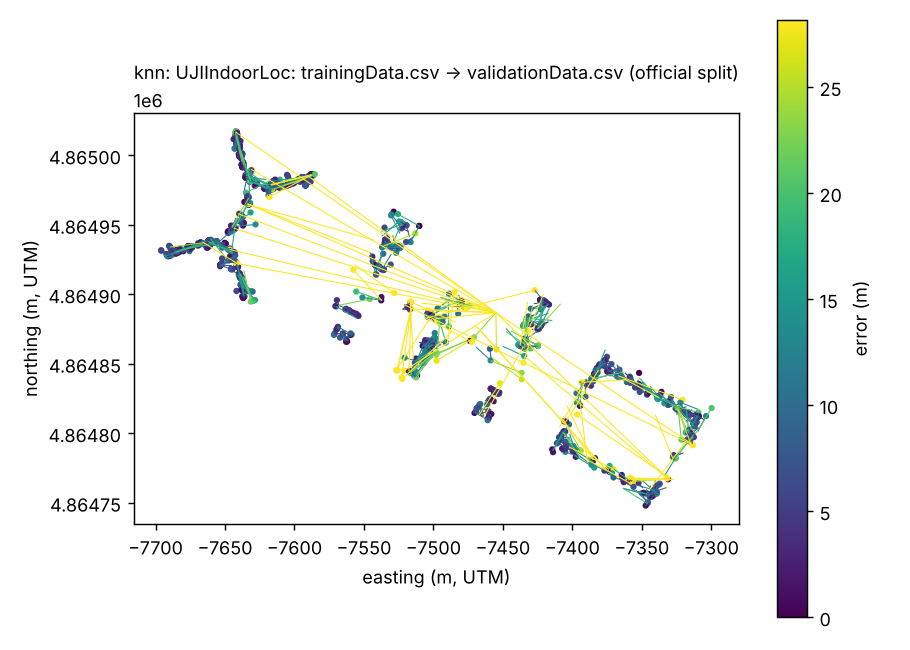
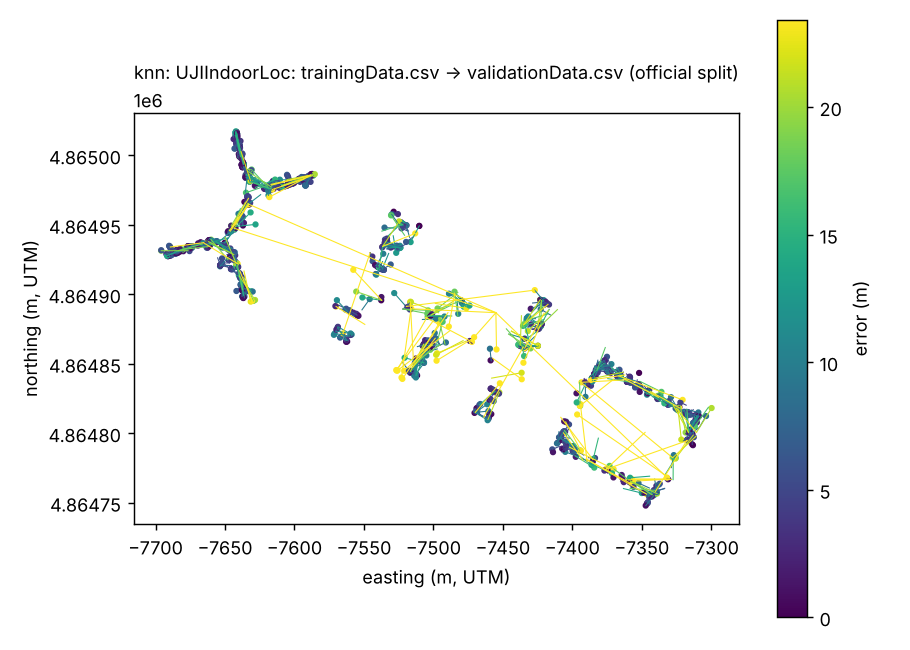
kNN: Euclidean default, --metric flag, feature x metric comparison table in results.json
Claude-Session: https://claude.ai/code/session_019pkodG4Ue6H1BCoX8NKmj1

diff --git a/src/rssi_loc/cli.py b/src/rssi_loc/cli.py
@@ -47,7 +47,7 @@ def run(args: argparse.Namespace) -> dict:
     errs: dict[str, np.ndarray] = {}
 
     def make_knn(k: int = args.k) -> KnnLocalizer:
-        return KnnLocalizer(k=k)
+        return KnnLocalizer(k=k, metric=args.metric)
 
     def make_mlp() -> MlpLocalizer:
         return MlpLocalizer(hidden=args.hidden, seed=0)
@@ -65,12 +65,32 @@ def run(args: argparse.Namespace) -> dict:
         }
         print(f"{name:4s} CV: {m_cv.as_dict()}\n{name:4s} split: {m_split.as_dict()}")
         plots.prediction_map(test.xy, pred.xy, figs / f"03_{name}_map.png", f"{name}: {source}")
-    res["knn"]["k"] = args.k
+    res["knn"]["k"], res["knn"]["metric"] = args.k, args.metric
     res["mlp"]["hidden"] = list(args.hidden)
 
     sweep = evaluate.k_sweep(KS, x_tr, train, x_te, test, make_knn)
     res["knn"]["k_sweep"] = sweep.to_dict(orient="records")
     print(sweep.to_string(index=False))
+
+    # Which feature representation and which distance? kNN only, official split, same k.
+    res["knn_variants"] = [
+        {
+            "features": kind,
+            "metric": metric,
+            **evaluate.summarise(
+                evaluate.fit_predict(
+                    KnnLocalizer(k=args.k, metric=metric),
+                    transform(train.rssi, kind),
+                    train,
+                    transform(test.rssi, kind),
+                ),
+                test,
+            ).as_dict(),
+        }
+        for kind in KINDS
+        for metric in ("euclidean", "manhattan")
+    ]
+    print("knn variants:", *res["knn_variants"], sep="\n  ")
 
     stds = {
         "any phone": evaluate.rssi_repeatability(train),
@@ -107,6 +127,7 @@ def main(argv: list[str] | None = None) -> None:
     r.add_argument("--figures", default="figures")
     r.add_argument("--features", default="powed", choices=KINDS)
     r.add_argument("--k", type=int, default=3)
+    r.add_argument("--metric", default="euclidean", choices=["euclidean", "manhattan"])
     r.add_argument("--folds", type=int, default=5)
     r.add_argument("--hidden", type=int, nargs="+", default=[256, 128])
     args = p.parse_args(argv)

diff --git a/src/rssi_loc/models.py b/src/rssi_loc/models.py
@@ -29,10 +29,11 @@ class KnnLocalizer:
 
     Position = inverse-distance weighted mean of the k nearest reference fingerprints;
     floor and building = weighted majority vote over the same k neighbours.
-    Manhattan distance in feature space is the classic choice (Torres-Sospedra 2015).
+    Manhattan distance is the classic choice (Torres-Sospedra 2015); Euclidean did better on
+    the official split here (see results.json "knn_variants"), so it is the default.
     """
 
-    def __init__(self, k: int = 3, metric: str = "manhattan", weighted: bool = True):
+    def __init__(self, k: int = 3, metric: str = "euclidean", weighted: bool = True):
         self.k, self.metric, self.weighted = k, metric, weighted
         self._nn = NearestNeighbors(n_neighbors=k, metric=metric)
 

diff --git a/tests/test_cli.py b/tests/test_cli.py
@@ -21,7 +21,8 @@ def test_run_synthetic_end_to_end(tmp_path):
     )
     res = json.loads((out / "results.json").read_text())
     assert res["knn"]["split"]["n"] == 150 and res["mlp"]["cv"]["n"] == 600
-    assert len(res["knn"]["k_sweep"]) == 7
+    assert len(res["knn"]["k_sweep"]) == 7 and len(res["knn_variants"]) == 4
+    assert res["knn"]["metric"] == "euclidean"
     names = sorted(p.name for p in figs.glob("*.png"))
     assert names == [
         "01_error_cdf.png",
